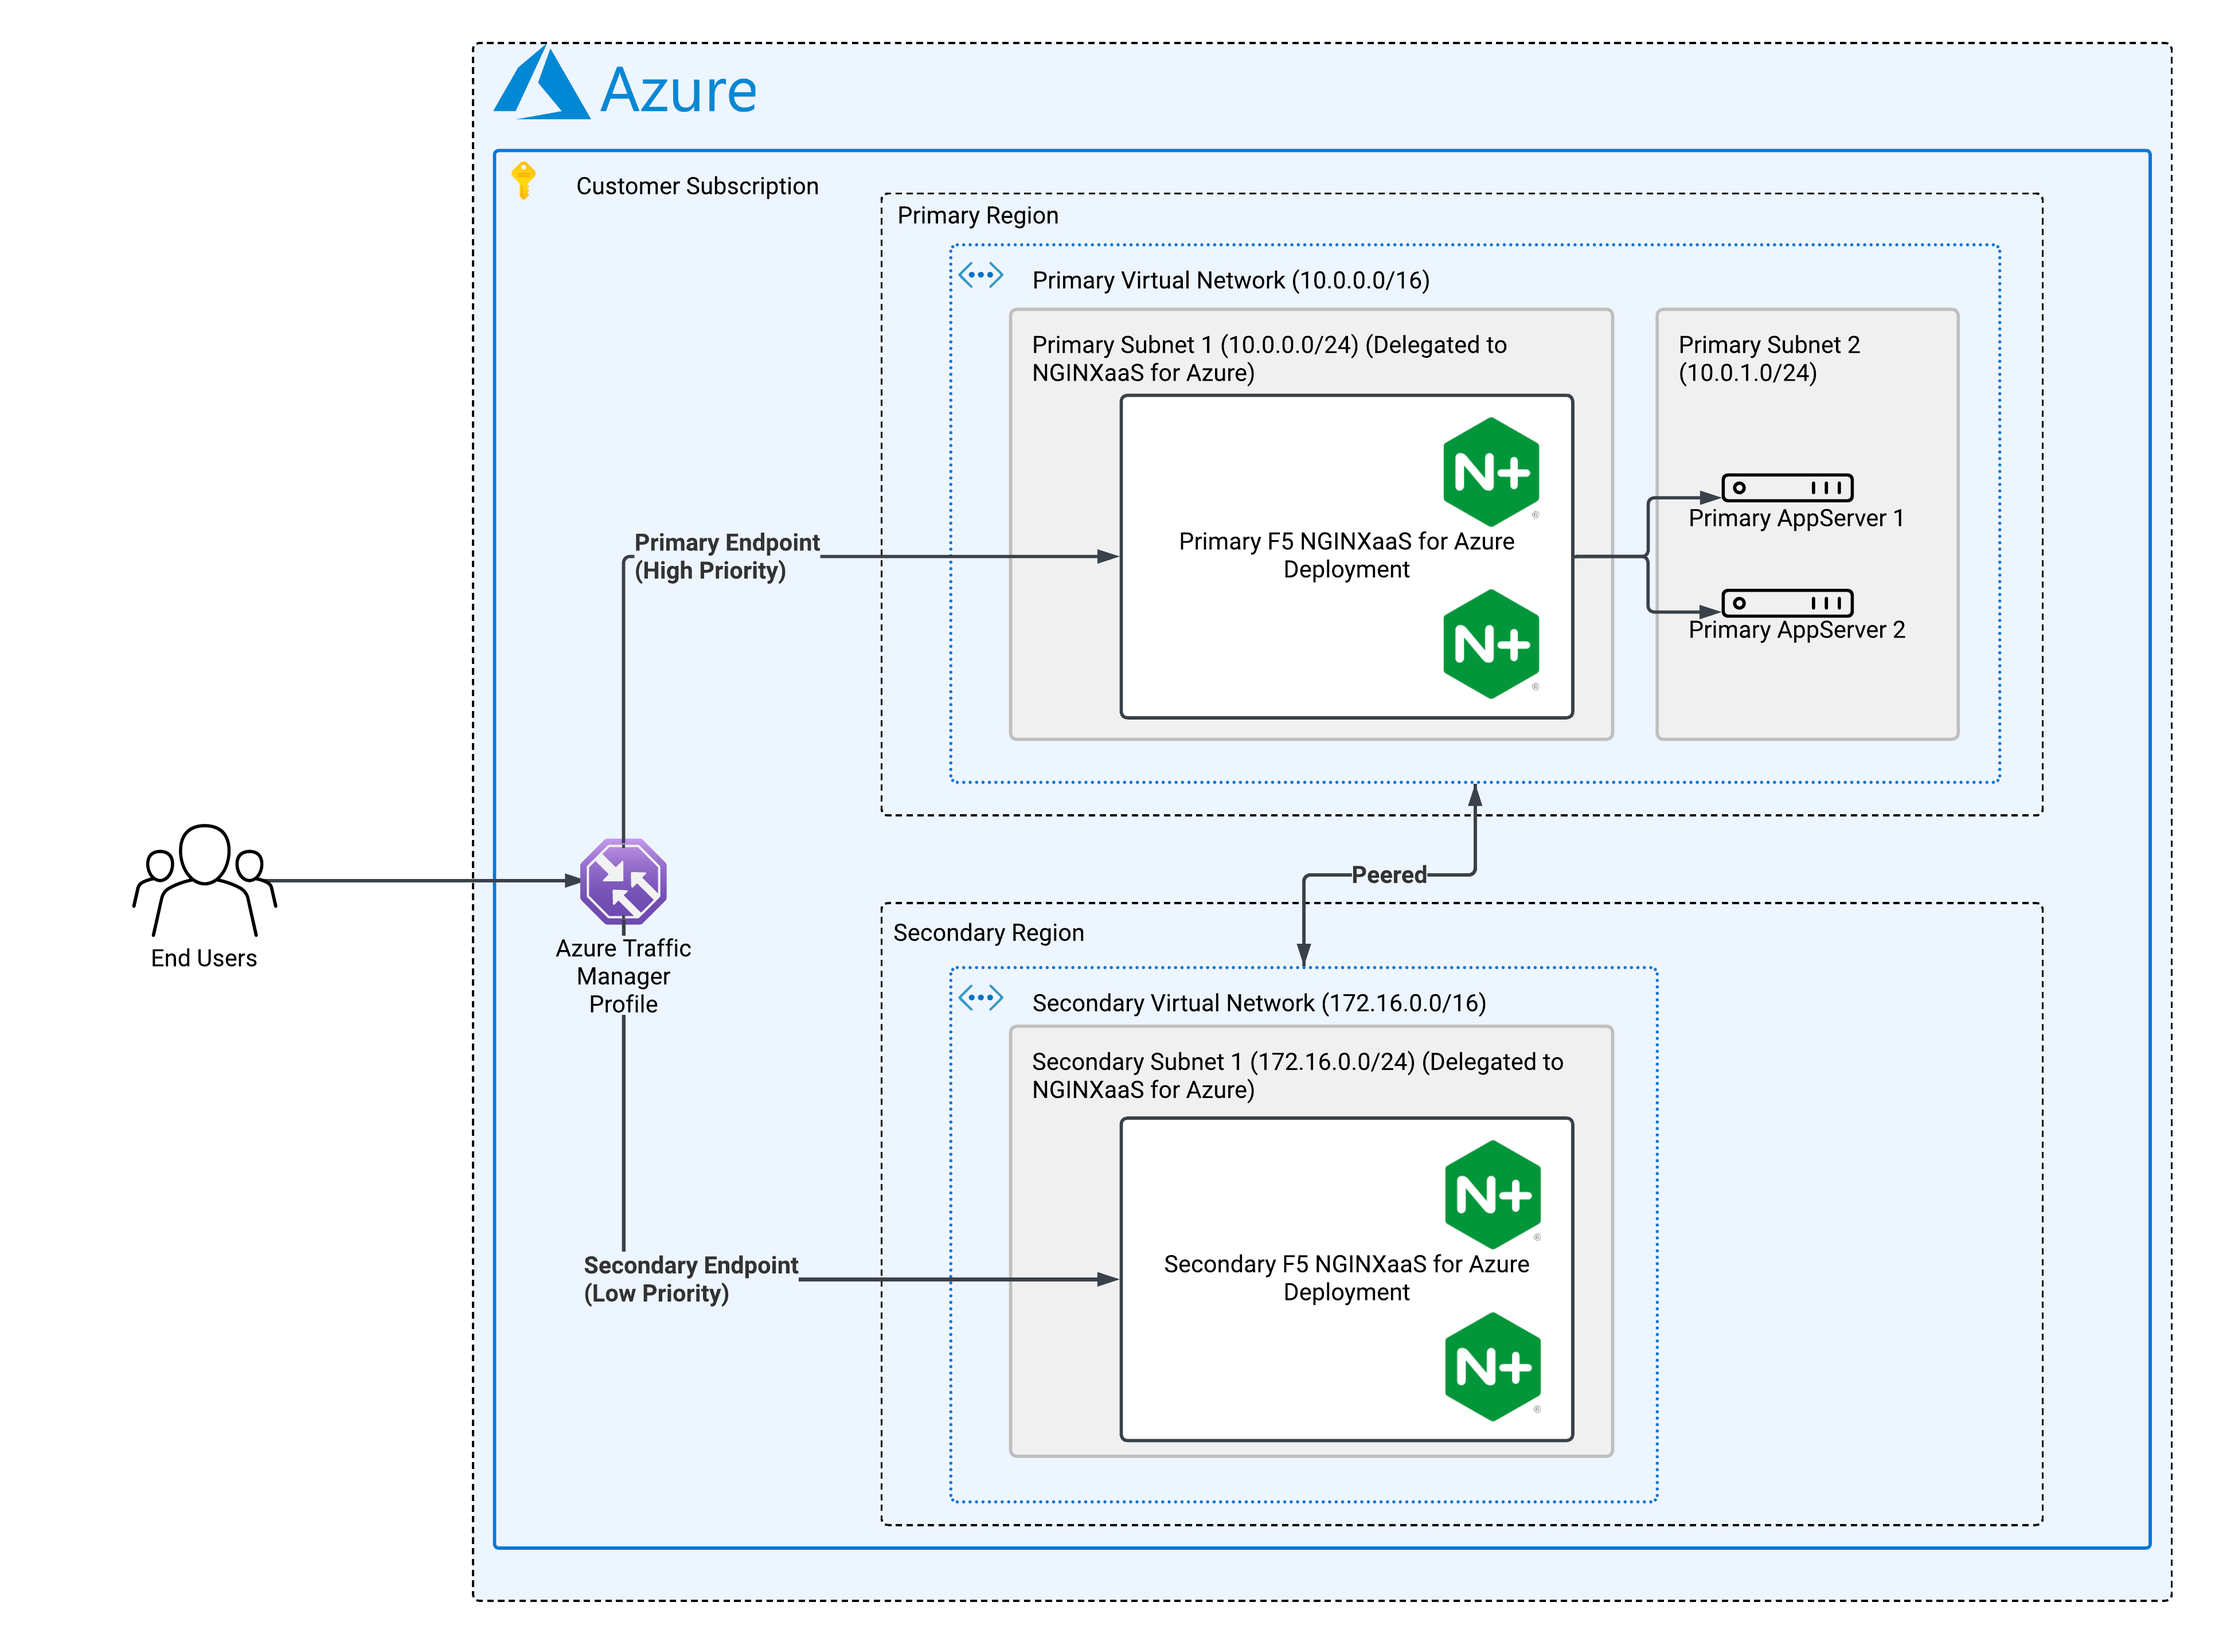
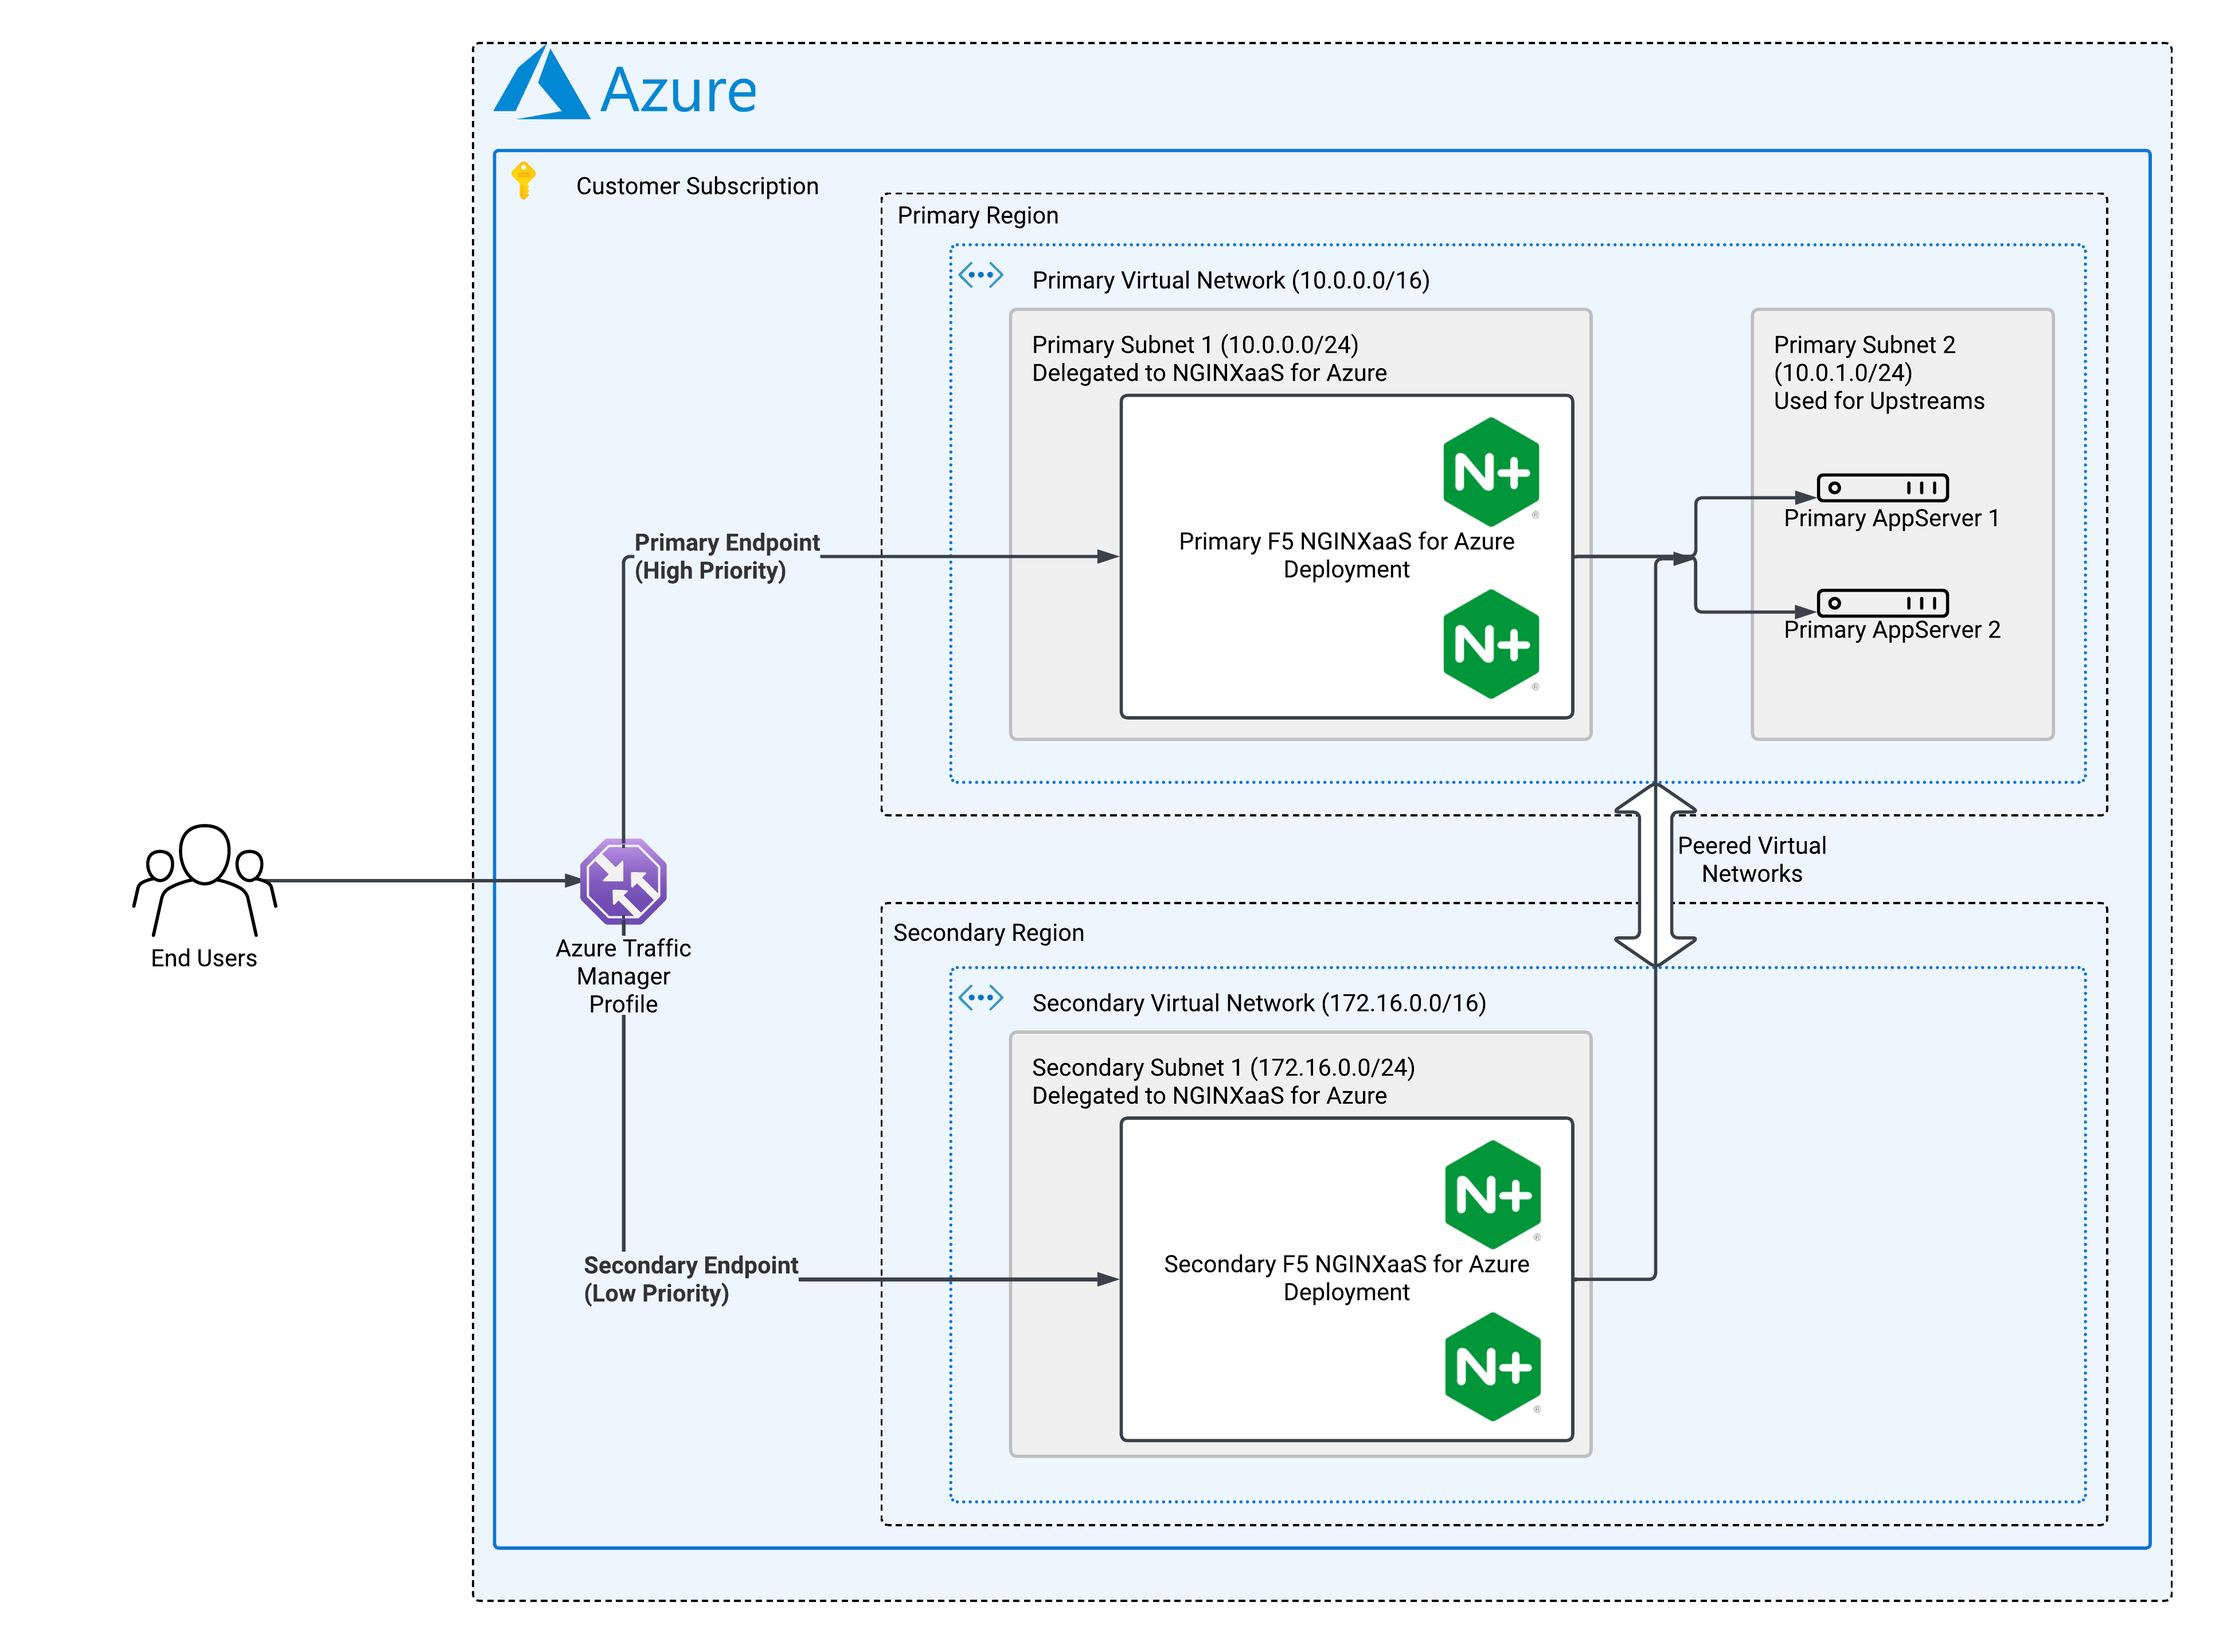
add some formatting and a better diagram for NGINXaaS DR.

diff --git a/content/nginxaas-azure/disaster-recovery.md b/content/nginxaas-azure/disaster-recovery.md
@@ -32,7 +32,7 @@ This guide describes how to configure disaster recovery (DR) for F5 NGINX as a S
 
 {{< note >}} Each NGINX deployment **must run on separate subnets and non-overlapping address spaces**. This is critical for [Virtual Network (VNet) peering](https://learn.microsoft.com/en-us/azure/virtual-network/how-to-configure-subnet-peering) between the two regions. For example:
 
-  - Prmary Region Virtual Network Address Space: `10.0.0.0/16`
+  - Primary Region Virtual Network Address Space: `10.0.0.0/16`
   - Secondary Region Virtual Network Address Space: `172.16.0.0/16`
 {{< /note >}}
 
@@ -63,7 +63,10 @@ terraform apply --auto-approve
 
 ### Step 2: Deploy prerequisite infrastructure
 
-Each region requires its own VNet, subnet(s), public IP and network security group. The following example shows the creation of the prerequisite resources:
+Each region requires its own VNet, subnet(s), public IP and network security group.
+
+<details closed>
+<summary style="font-weight:bold">This sample Terraform code creates the prerequisite resources.</summary>
 
 ```hcl
 # Primary Region
@@ -165,12 +168,16 @@ resource "azurerm_subnet_network_security_group_association" "secondary_virtual_
   network_security_group_id = azurerm_network_security_group.secondary_virtual_network_nsg.id
 }
 ```
+</details>
 
 ---
 
 ### Step 3: Configure app servers (upstreams)
 
 You may already have upstreams in the primary region that you wish to reverse proxy using NGINXaaS. For the sake of completion, the following example shows creation of Primary Subnet 2, NICs for the upstreams and the upstreams themselves. The upstream VMs need to be in a subnet separate from the NGINXaaS deployment subnet in the **primary region**.
+
+<details closed>
+<summary style="font-weight:bold">This sample Terraform code creates and configures the upstreams.</summary>
 
 ```hcl
 resource "azurerm_subnet" "primary_subnet_2" {
@@ -221,6 +228,8 @@ resource "azurerm_linux_virtual_machine" "nginx_upstream_vm" {
   )
 }
 ```
+</details>
+<br>
 
 > **Note**: As a best practice, maintain identical upstream resources in your secondary region as in your primary region to ensure full protection and availability in the event of a region-wide outage or disaster.
 
@@ -228,7 +237,10 @@ resource "azurerm_linux_virtual_machine" "nginx_upstream_vm" {
 
 ### Step 4: Peer the VNets
 
-Peer the virtual networks so that the upstream app servers are accessible from either primary or secondary NGINXaaS deployment
+Peer the virtual networks so that the upstream app servers are accessible from either primary or secondary NGINXaaS deployment.
+
+<details closed>
+<summary style="font-weight:bold">This sample Terraform code configures peering for the virtual networks.</summary>
 
 ```hcl
 resource "azurerm_virtual_network_peering" "primary_vnet_to_secondary_vnet" {
@@ -245,6 +257,8 @@ resource "azurerm_virtual_network_peering" "secondary_vnet_to_primary_vnet" {
   remote_virtual_network_id = azurerm_virtual_network.primary_virtual_network.id
 }
 ```
+</details>
+<br>
 
 - **Subnet Peering for Overlapping VNets:**
 If overlapping address spaces are unavoidable, use subnet-level peering to selectively peer only the required subnets.
@@ -255,7 +269,10 @@ If overlapping address spaces are unavoidable, use subnet-level peering to selec
 
 ### Step 5: Deploy NGINXaaS for Azure in each region
 
-Reverse proxy your upstreams using NGINXaaS. Since the virtual networks are peered, both deployments would be able to access the upstreams. The following code deploys and configures both primary and secondary NGINXaaS deployments.
+Reverse proxy your upstreams using NGINXaaS. Since the virtual networks are peered, both deployments would be able to access the upstreams.
+
+<details closed>
+<summary style="font-weight:bold">This sample Terraform code deploys and configures both primary and secondary NGINXaaS deployments.</summary>
 
 ```hcl
 resource "azurerm_nginx_deployment" "primary_nginxaas_deployment" {
@@ -374,6 +391,7 @@ EOT
   }
 }
 ```
+</details>
 
 ---
 
@@ -381,6 +399,9 @@ EOT
 
 - Use Azure Traffic Manager to direct traffic to the primary NGINXaaS deployment.
 - When the primary deployment is detected as being unhealthy, Azure Traffic Manager updates the public DNS record of your service to point to the public IP of the NGINXaaS deployment in the secondary region.
+
+<details closed>
+<summary style="font-weight:bold">This sample Terraform code configures Azure Traffic Manager to point to both NGINXaaS deployments.</summary>
 
 ```hcl
 resource "azurerm_traffic_manager_profile" "nginxaas_failover_monitor" {
@@ -418,6 +439,7 @@ resource "azurerm_traffic_manager_external_endpoint" "secondary" {
   target              = azurerm_nginx_deployment.secondary_nginxaas_deployment.ip_address
 }
 ```
+</details>
 
 ---
 
